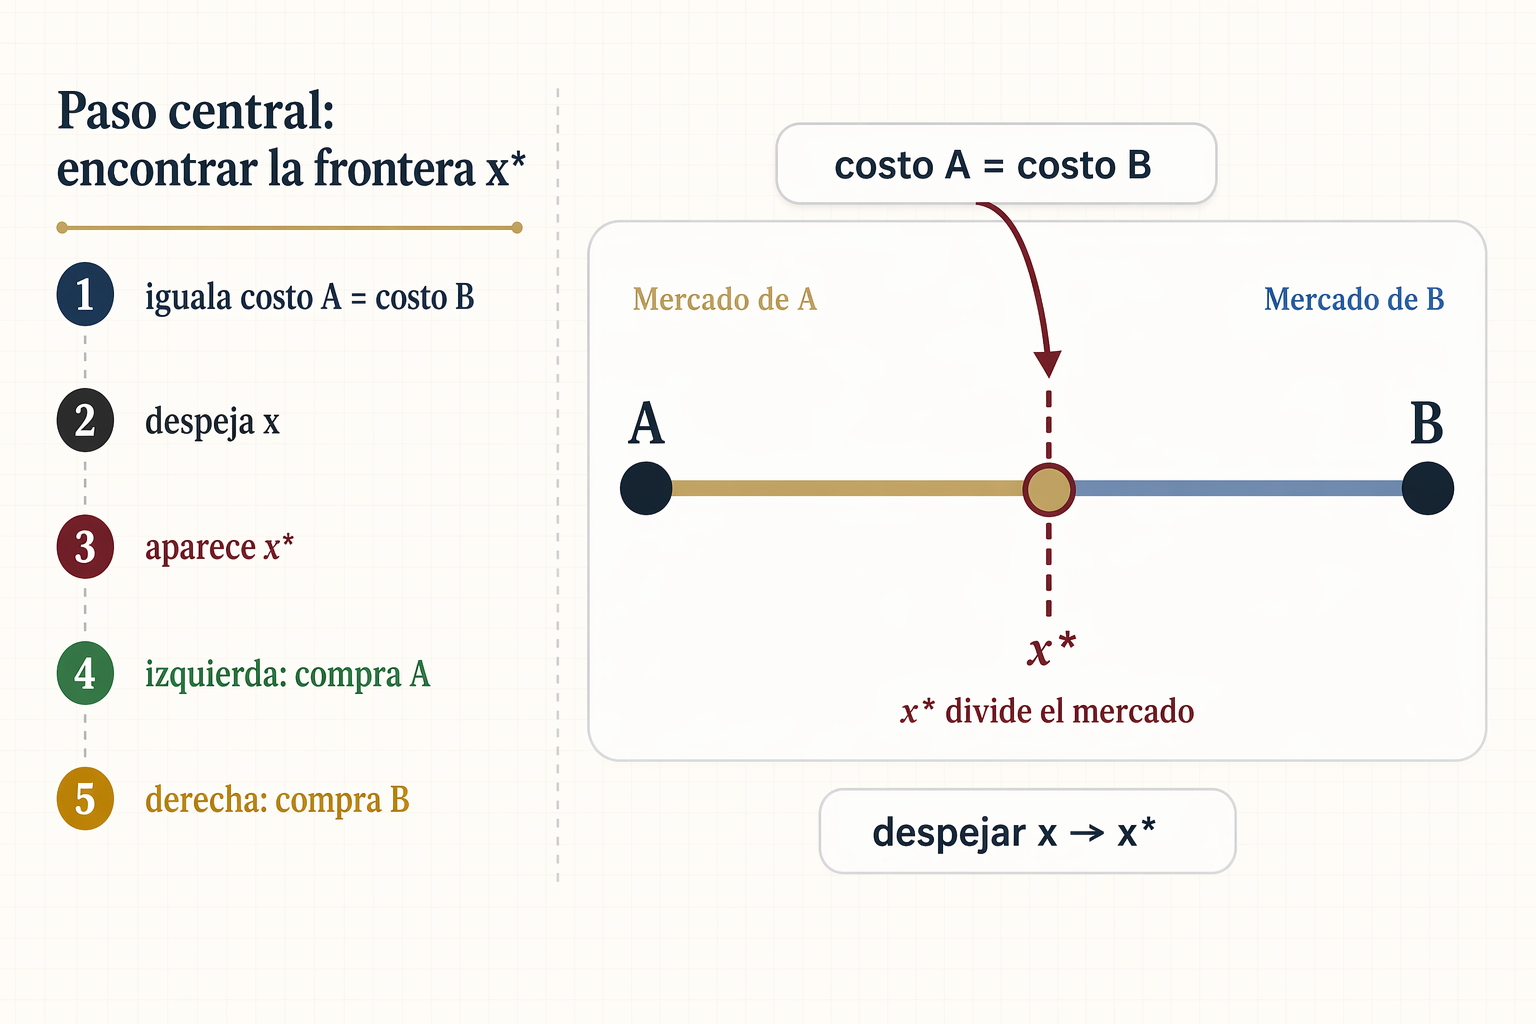
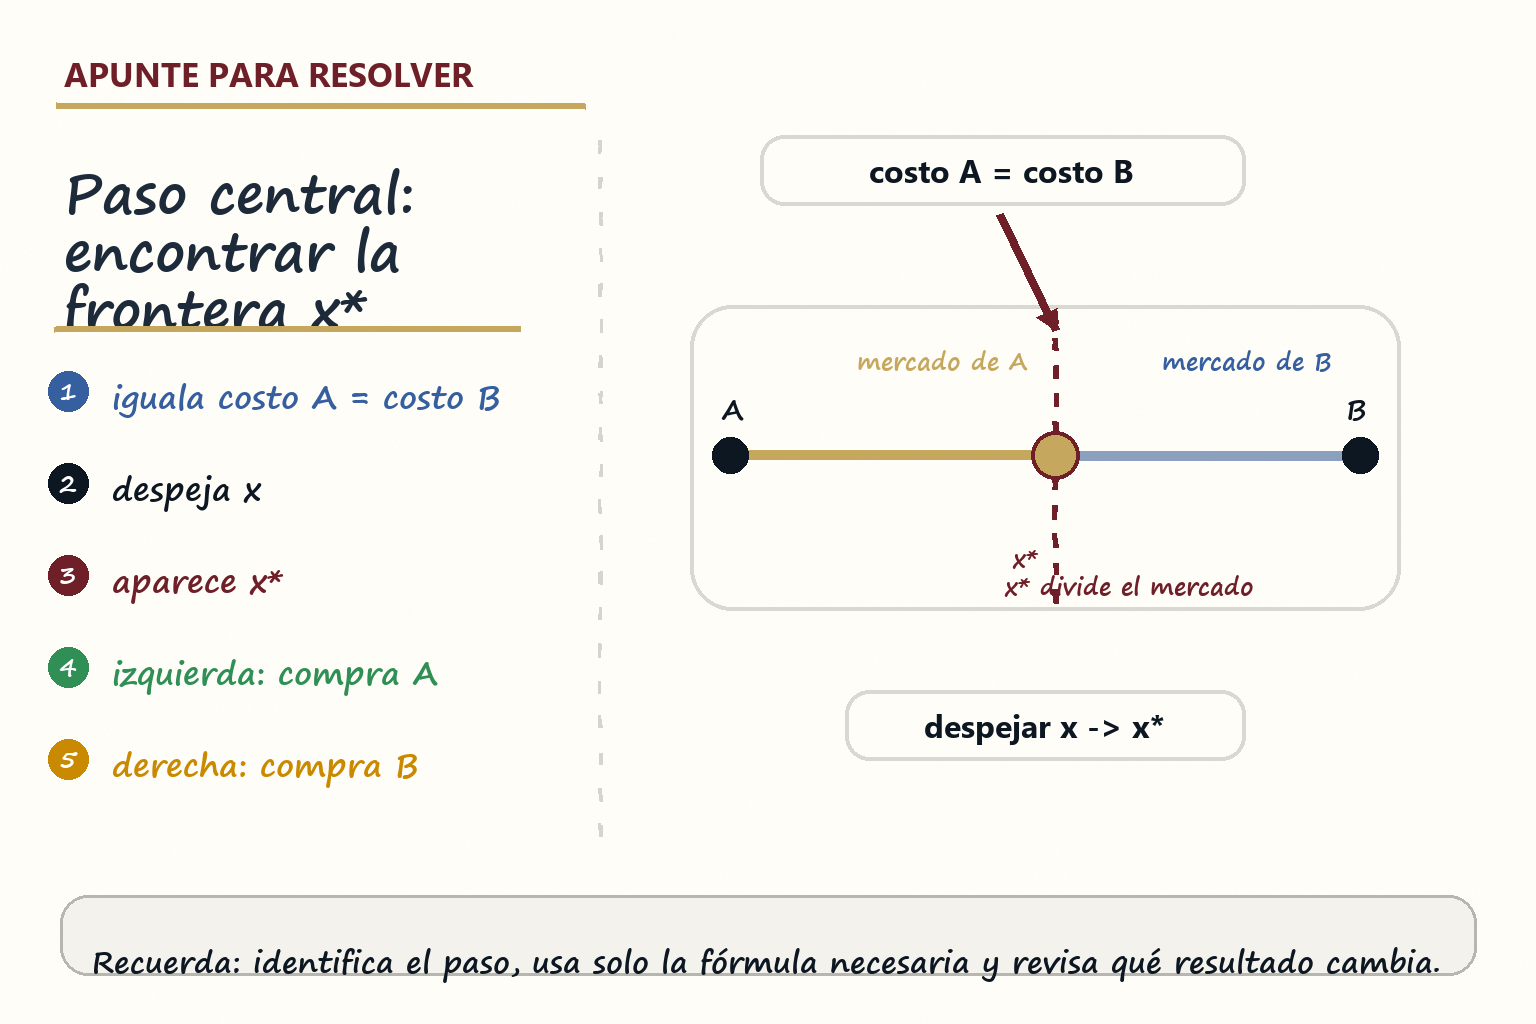
Unify whiteboard visuals across lesson panels

diff --git a/src/content/image-manifest.ts b/src/content/image-manifest.ts
@@ -6,14 +6,14 @@ export const HOTELLING_IMAGE_PUBLIC_DIR = "/generated/hotelling" as const;
 export const HOTELLING_HERO_IMAGE_PUBLIC_PATH = `${HOTELLING_IMAGE_PUBLIC_DIR}/panorama-costo-total.png` as const;
 
 export const whiteboardVisualDirection = `
-Estilo editorial didáctico sobre fondo marfil claro.
-Trazos limpios de plumón o tinta técnica en azul, negro, rojo, verde y dorado sobrio.
-Texto corto, grande y perfectamente legible; si la escritura manual deforma letras, preferir lettering impreso ordenado.
-Composición horizontal, clara y didáctica, pensada para una tarjeta 3:2 dentro de una app web.
-Jerarquía tipográfica alineada con la app: títulos con apariencia serif editorial similar a Newsreader; etiquetas, notas y pasos con sans geométrica similar a Manrope.
-Una sola idea visual por imagen, máximo dos fórmulas y hasta cinco etiquetas breves.
-Sin personas, sin salón real, sin decoración extra, sin collages, sin estética infantil.
-El objetivo es aclarar cómo resolver el paso y mantener coherencia visual con la interfaz de la aplicación.
+Estilo de apunte en pizarrón blanco sobre fondo marfil claro, como una lámina escrita con plumones.
+Trazos manuales limpios, gruesos y legibles en azul, negro, rojo vino, verde y dorado sobrio.
+Texto corto, grande y perfectamente legible; usar lettering impreso con apariencia de plumón, no letra deformada.
+Composición horizontal 3:2 con dos zonas: columna izquierda de pasos numerados y zona derecha con el diagrama principal.
+Usar títulos grandes, etiquetas breves, cajas redondeadas, flechas claras y una franja inferior de recordatorio.
+Una sola idea visual por imagen, máximo dos fórmulas principales y hasta cinco etiquetas breves.
+Sin personas, sin salón real, sin decoración extra, sin collages, sin estética infantil y sin apariencia SVG.
+El objetivo es que parezca un apunte de profesor claro, académico y listo para estudiar en móvil.
 `.trim();
 
 export const imageManifest: SectionImageSpec[] = [
@@ -132,7 +132,7 @@ Resumir el escenario 1 con simetría total. Dibujar extremos opuestos, x*=50, pr
     caption: "Cuando todo es simétrico, el resultado también lo es.",
     quality: "medium",
     size: "1536x1024",
-    status: "draft",
+    status: "generated",
     assetPath: `${HOTELLING_IMAGE_PUBLIC_DIR}/escenario-1.svg`,
     generatedAssetPath: `${HOTELLING_IMAGE_PUBLIC_DIR}/escenario-1.png`,
     sketchLines: [
@@ -153,7 +153,7 @@ Resumir el escenario 2 con ventaja de costos para A. Dibujar la frontera movida 
     caption: "Una ventaja de costos le permite a A cobrar menos y ganar más mercado.",
     quality: "medium",
     size: "1536x1024",
-    status: "draft",
+    status: "generated",
     assetPath: `${HOTELLING_IMAGE_PUBLIC_DIR}/escenario-2.svg`,
     generatedAssetPath: `${HOTELLING_IMAGE_PUBLIC_DIR}/escenario-2.png`,
     sketchLines: [
@@ -174,7 +174,7 @@ Resumir el escenario 3 con ubicaciones interiores simétricas. Dibujar a=20, b=8
     caption: "Mover las empresas hacia el interior no rompe el equilibrio si la simetría se conserva.",
     quality: "medium",
     size: "1536x1024",
-    status: "draft",
+    status: "generated",
     assetPath: `${HOTELLING_IMAGE_PUBLIC_DIR}/escenario-3.svg`,
     generatedAssetPath: `${HOTELLING_IMAGE_PUBLIC_DIR}/escenario-3.png`,
     sketchLines: [
@@ -195,7 +195,7 @@ Comparar visualmente los tres escenarios. Un bloque para simetría, otro para ve
     caption: "El cierre compara qué cambia por costos y qué se mantiene por simetría.",
     quality: "medium",
     size: "1536x1024",
-    status: "draft",
+    status: "generated",
     assetPath: `${HOTELLING_IMAGE_PUBLIC_DIR}/resumen-comparacion.svg`,
     generatedAssetPath: `${HOTELLING_IMAGE_PUBLIC_DIR}/resumen-comparacion.png`,
     sketchLines: [
